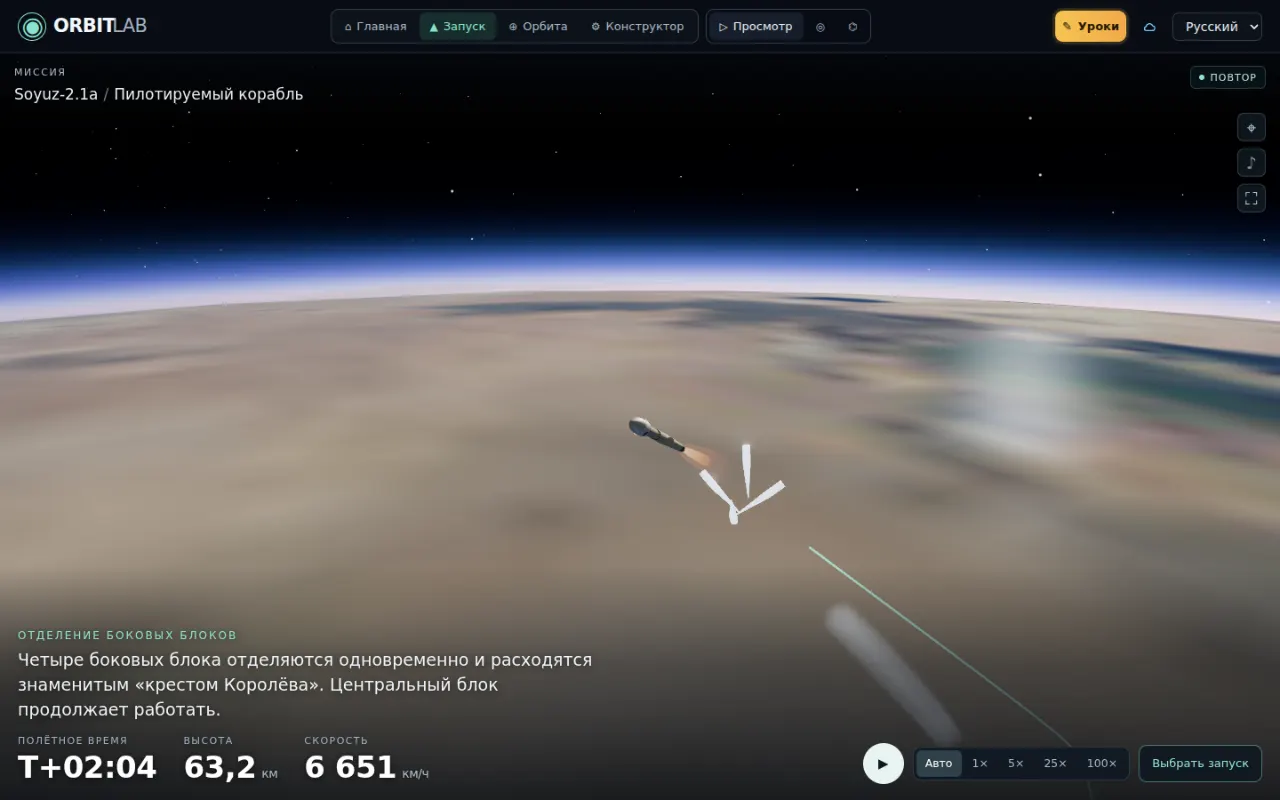
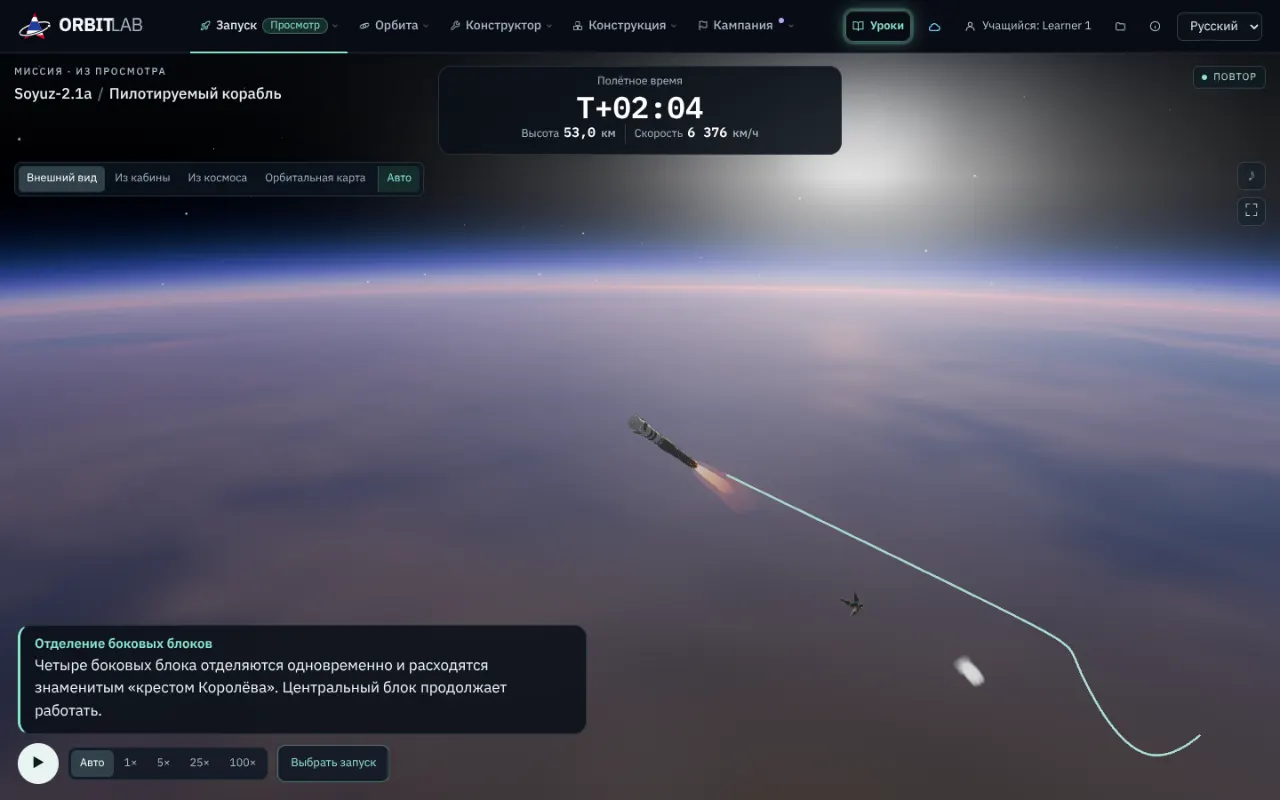
Home: the landing page's eighteen pictures taken again (npm run shots) (#231)
The landing page's eighteen pictures were taken again with `npm run shots -- en,ru,th` from main ffe3734d (#230): watch, explore, engineer, lessons, orbit and structure, each in English, Russian and Thai. This is a look change, pictures only, with no code changes. It is follow-up 1 of the onboard callout's report.

- Explore's picture now shows the onboard view. Its latest event reads as the event log reads it (#230's fix).
- The link preview (public/social/preview.jpg) was not taken again.
- Known, as on main: the English and Russian Structure pictures show the ST31 guide's Thai lines.
- Records: the CHANGELOG line and PROGRESS row are appended to changes/claude-friendly-keller-78iuc9.md, and a dated note is added under follow-up 1 of docs/development/reports/onboard-callout.md.

The owner's words in chat:
- 2026-11-21 at 23:40:33Z, "ถ่ายรูปหน้าแรกใหม่ต่อได้เลยครับ"
- 23:45:43Z, "เปิด PR แล้ว merge ได้เลยครับ"
- 23:47:26Z, "ส่งรูปให้ดูก่อน merge ด้วยครับ"
- 2026-11-22 at 00:00:43Z, after the before-and-after sheets were sent in chat, "merge ได้เลยครับ"

CI 44965673885 passed on 4b5fda83: 12 of 12 jobs.

Claude-Session: https://claude.ai/code/session_01JPSDq7LAZAow8iDwBM7y6w

diff --git a/changes/claude-friendly-keller-78iuc9.md b/changes/claude-friendly-keller-78iuc9.md
@@ -1,7 +1,9 @@
 ## CHANGELOG
 
 - Onboard view (bug fix; the owner's word in chat, 2026-11-20): the strip under the onboard view writes the latest event as the event log does. An aerodynamic-envelope warning read "vehicle, Blok I (3rd stage, RD-0110) (α {alphaDeg}°, β {betaDeg}°)"; it now reads "tracked vehicle", the stage's name in the reader's language and the angles in degrees, and any event's stage, burn, mode or rate is written as everywhere else, in the chosen notation.
+- Home (a look change, pictures only; the owner's word in chat, 2026-11-21, and on the before-and-after pictures, 2026-11-22): the landing page's eighteen pictures, six faces in English, Russian and Thai, are taken again with `npm run shots -- en,ru,th` from the app as on main `ffe3734d`, the onboard view's fix in them; the link preview is not.
 
 ## PROGRESS
 
 | The onboard view's latest callout (bug fix; found by the Structure & Assembly session and reported to the owner, 2026-11-14; the owner's words in chat, 2026-11-20 at 23:41:37Z, "ทำข้อ 1 ต่อได้เลยครับ", and at 23:58:52Z, "เปิด PR แล้ว merge ได้เลยครับ") | Merged, waiting for publish (PR #230) | `src/ui/onboard.ts` writes the callout through `localizeEventParams(sim.vehicleSpec, params)`, as every other event view does, and writes it again when the language or the notation changes; `tests/onboard-callout.test.ts` (6, the real overlay on a recording canvas: the envelope event in three languages, the stage's Thai name, English to Thai, ISO to ГОСТ), all failing on main's file and passing with the fix; `change-map.json`'s `launch-ui` rule selects it; typecheck, build, budget, node verification 98 / 98, the change map's 62 unit files for this diff 722 of 722; `r2-flight-shell` and `r2-shell-smoke` passed locally. The normal CI run on the head that merges is in PR #230. | [report](reports/onboard-callout.md) |
+| Home's eighteen pictures taken again (a look change, pictures only, no code; follow-up 1 of the onboard callout's report; the owner's words in chat, 2026-11-21 at 23:40:33Z, "ถ่ายรูปหน้าแรกใหม่ต่อได้เลยครับ", at 23:45:43Z, "เปิด PR แล้ว merge ได้เลยครับ", and at 23:47:26Z, "ส่งรูปให้ดูก่อน merge ด้วยครับ"; on 2026-11-22 at 00:00:43Z, after the session sent the before-and-after sheets in chat, "merge ได้เลยครับ") | Merged, waiting for publish (PR #231) | `public/home/<face>.<lang>.webp`, the six faces (watch, explore, engineer, lessons, orbit, structure) in en, ru and th, taken by `npm run shots -- en,ru,th` on main `ffe3734d` (#230), 1280 × 800 as before, 18 files, 977 674 bytes in all against main's 1 106 520; not precached and in no ceiling, as #218's row says. They show the app of today: Redesign A's scene-first Watch, the lessons' light catalogue, Structure & Assembly in the top bar; Explore's picture now shows the onboard view, which the automatic camera (Cinematic) has chosen at T+05:00, with the latest event written as the event log writes it (#230); the Orbit picture's globe turns with the day it is taken. Checked by eye, each language beside main's pictures; the `structure-entries` journey, in the pull request's checks since #221, reads the Thai Structure picture (its name and its 1280 px width), and passed locally (1 of 1). Known, as on main: the English and Russian Structure pictures show the ST31 guide's Thai lines (its configuration, introduction and summary labels), which `public/structure/soyuz-2-1b-fregat-st31.r4.json` gives in Thai only. `public/social/preview.jpg` (the link preview) was not taken again: the language arguments leave it out. The normal CI run on the head that merges is in PR #231. | [report](reports/onboard-callout.md) |

diff --git a/docs/development/reports/onboard-callout.md b/docs/development/reports/onboard-callout.md
@@ -88,13 +88,21 @@ envelope, which neither journey reaches.
 
 **The landing page's pictures.** The report that found the bug says the
 eighteen pictures, taken on 2026-10-18 (#164), are best taken again once it
-is fixed, since the Thai Explore picture shows the onboard view with the raw
-line. That changes eighteen files a visitor sees, and the pictures show the
-app of today, with every look change since 2026-10-18, so it is a step of
-its own, with the pictures shown to the owner first.
+is fixed, since a Thai Explore picture taken now shows the onboard view with
+the raw line (main's own picture shows the exterior view). That changes
+eighteen files a visitor sees, and the pictures show the app of today, with
+every look change since 2026-10-18, so it is a step of its own, with the
+pictures shown to the owner first.
 
 ## Follow-ups
 
 1. **Take the landing page's eighteen pictures again** (`npm run shots`),
    after this fix is merged, and show them to the owner before they merge.
    *Owner (proposal):* this session, on the owner's word.
+   *2026-11-21 and 2026-11-22:* taken again on the owner's word in chat
+   (23:40:33Z, "ถ่ายรูปหน้าแรกใหม่ต่อได้เลยครับ"), in PR #231, by
+   `npm run shots -- en,ru,th` on main `ffe3734d`; the owner asked to see
+   them before the merge (23:47:26Z, "ส่งรูปให้ดูก่อน merge ด้วยครับ"). The session sent the before-and-after sheets, one per
+   language, in chat; the owner answered on 2026-11-22 at 00:00:43Z, "merge
+   ได้เลยครับ". The link preview (`public/social/preview.jpg`) was not taken
+   again.
